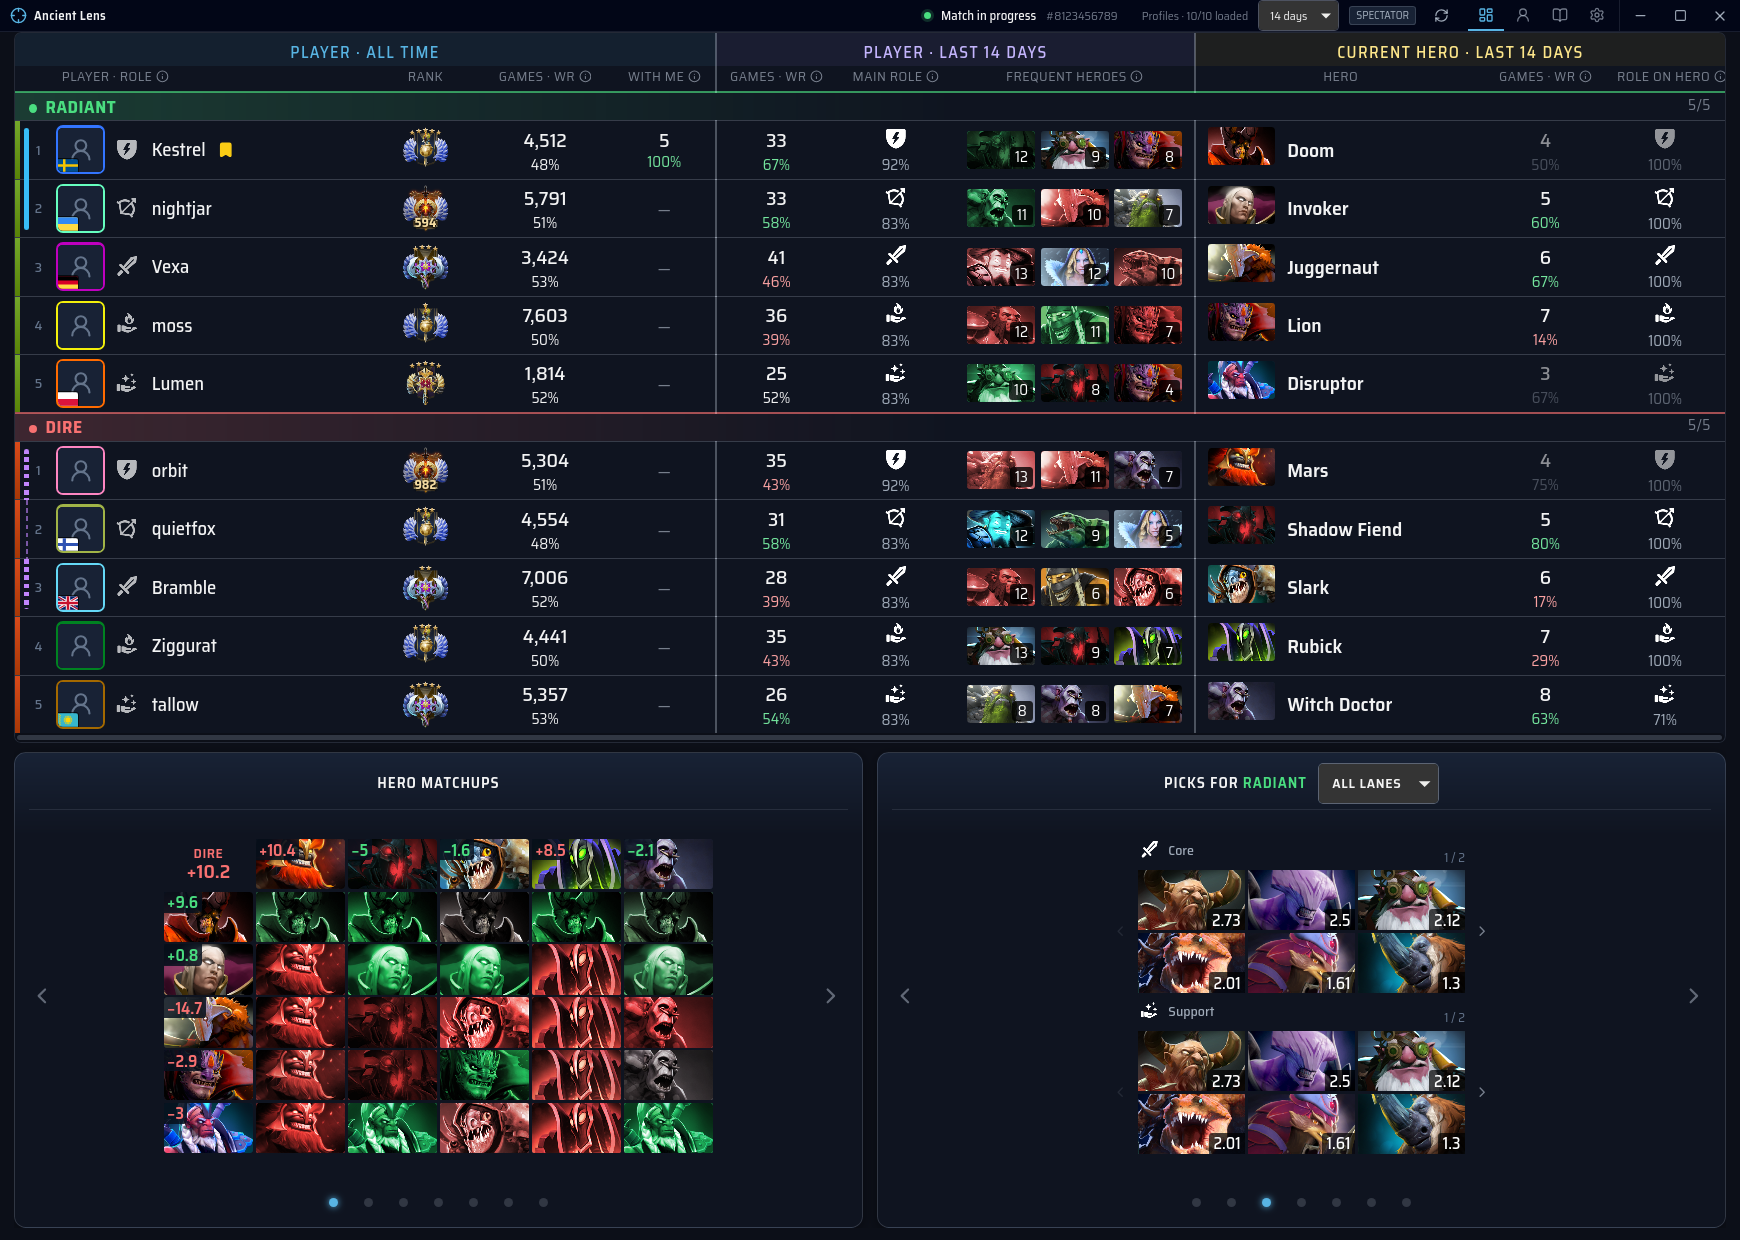
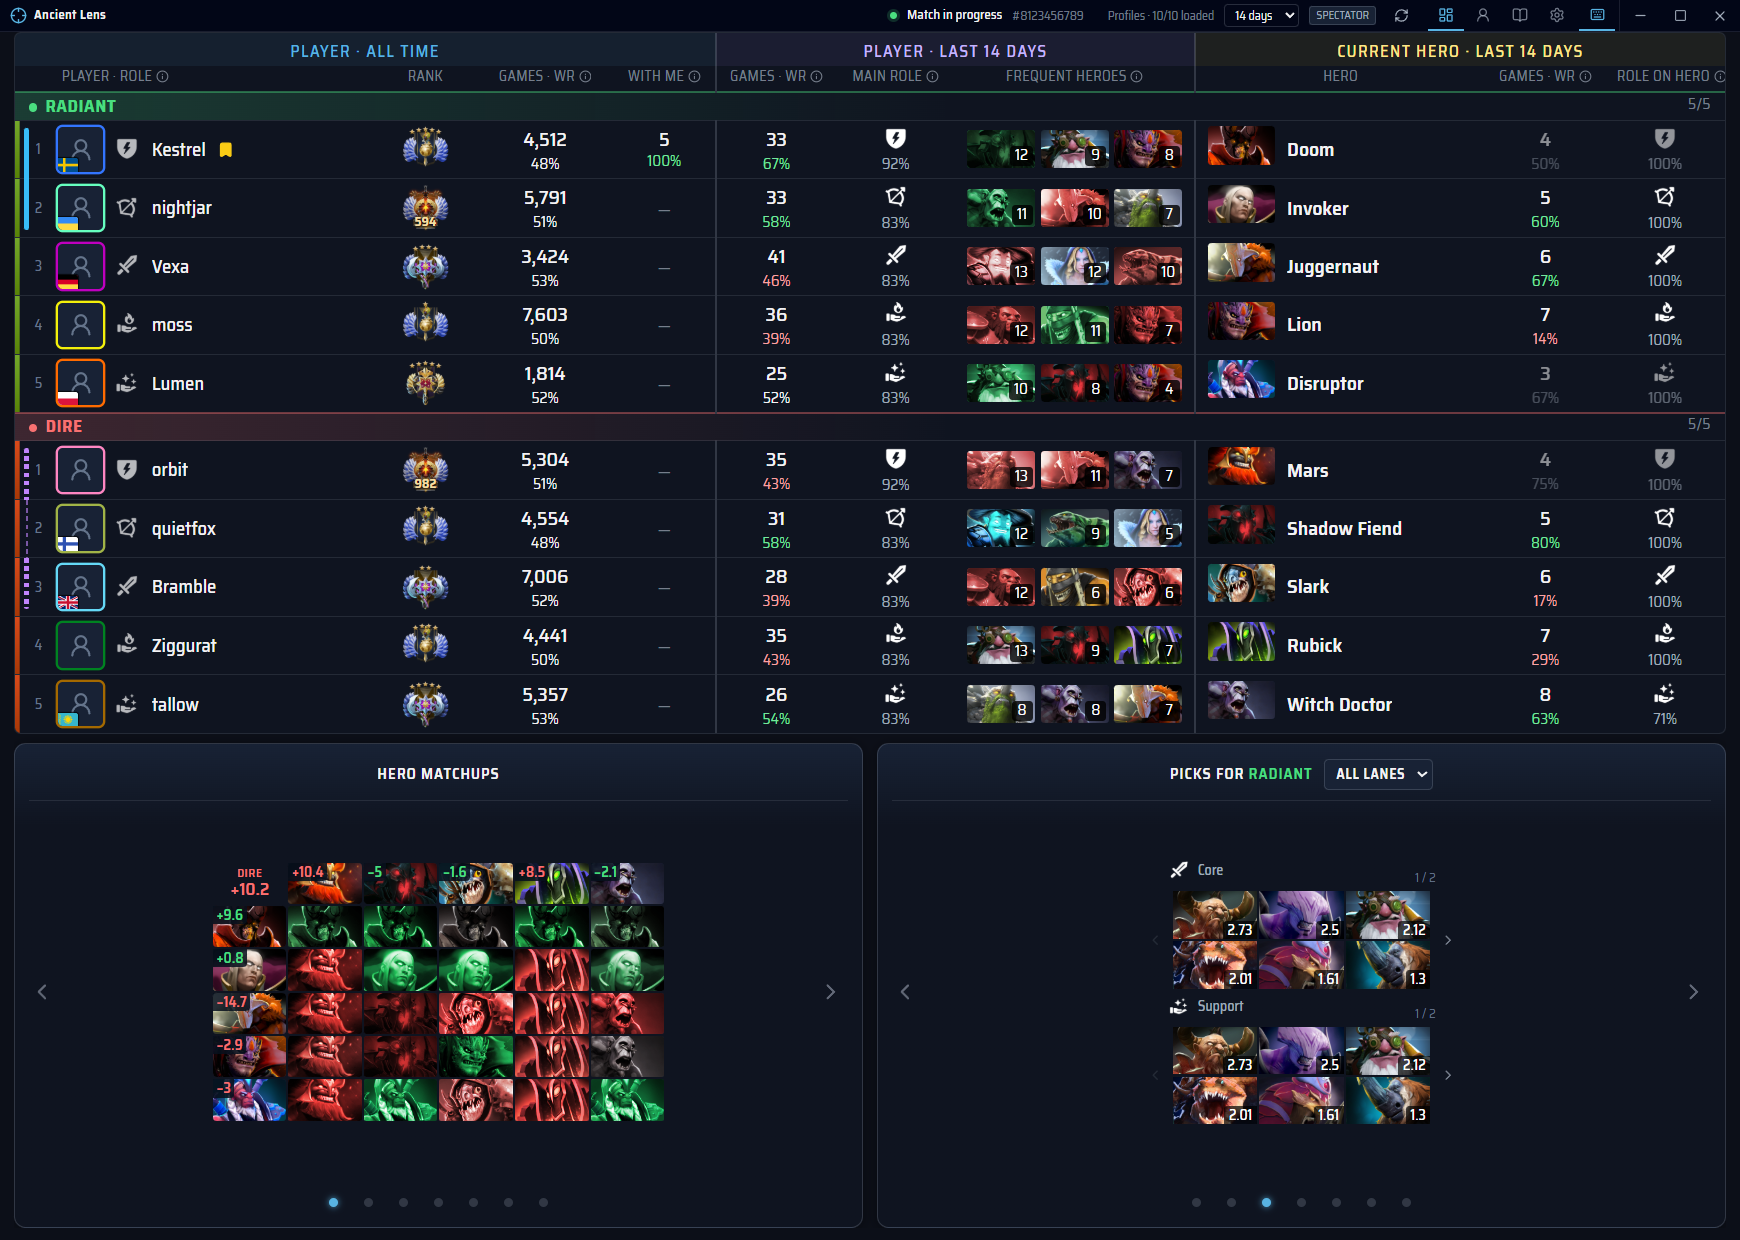
chore(release): prepare 0.7.2 with a steady match screen and window order
Synchronize npm, Cargo, Tauri and lockfile versions at 0.7.2, date the
changelog with a short intro and keep an empty Unreleased section. The
README summary and the installation example name 0.7.2.

The match screen capture is regenerated: the 0.7.1 image still showed the
stray horizontal scroll bar under the match table that #59 removed. The
player card and profile captures differ only in Windows rendering and the
dates of the last 30 days, so they stay at their 0.7.1 versions.

Closes #63

diff --git a/README.md b/README.md
@@ -19,7 +19,7 @@
   <a href="docs/README.md"><b>Documentation</b></a>
 </p>
 
-> **Early prototype, 0.7.1.** Unsigned prereleases for Windows and Linux are on the
+> **Early prototype, 0.7.2.** Unsigned prereleases for Windows and Linux are on the
 > [releases page](https://github.com/PavluntiyJ/ancient-lens/releases); you can also
 > [build from source](docs/guide/install.md). Not affiliated with Valve.
 
@@ -34,9 +34,9 @@
 - **Player cards and notes:** hover a player for recent matches, earlier games with or
   against you, an editable note, and links to Dotabuff, OpenDota, STRATZ and Steam.
 
-In 0.7.1, the match table marks players who queued together, from their public match history,
-and hover cards list every match of the period. See the
-[changelog](CHANGELOG.md#071--october-30-2026).
+In 0.7.2, the match screen holds still at window sizes where it used to jump on Windows, the
+match window opens in front of the profile window, and the profile window opens centred. See
+the [changelog](CHANGELOG.md#072--october-30-2026).
 
 Screenshots use invented players. A tour of every panel and shortcut:
 [the match screen and profile](docs/guide/match-and-profile.md).

diff --git a/CHANGELOG.md b/CHANGELOG.md
@@ -4,6 +4,11 @@ User-visible changes. Dates are when the change landed; 0.5.0 is the first binar
 
 ## Unreleased
 
+## 0.7.2 — October 30, 2026
+
+A patch release: the match screen no longer jumps at some Windows window sizes, and the two
+windows open in a steadier order. Existing settings, notes and rating history are kept.
+
 ### Changed
 
 - At start the match window opens in front and the profile window behind it, both already in

diff --git a/docs/guide/install.md b/docs/guide/install.md
@@ -56,7 +56,7 @@ On Windows, in PowerShell, print the hash and compare it with the line for that
 file in `SHA256SUMS.txt`:
 
 ```powershell
-Get-FileHash .\Ancient-Lens-0.7.1-x64-setup.exe -Algorithm SHA256
+Get-FileHash .\Ancient-Lens-0.7.2-x64-setup.exe -Algorithm SHA256
 ```
 
 `Get-FileHash` prints capital letters; upper and lower case do not matter. Do
